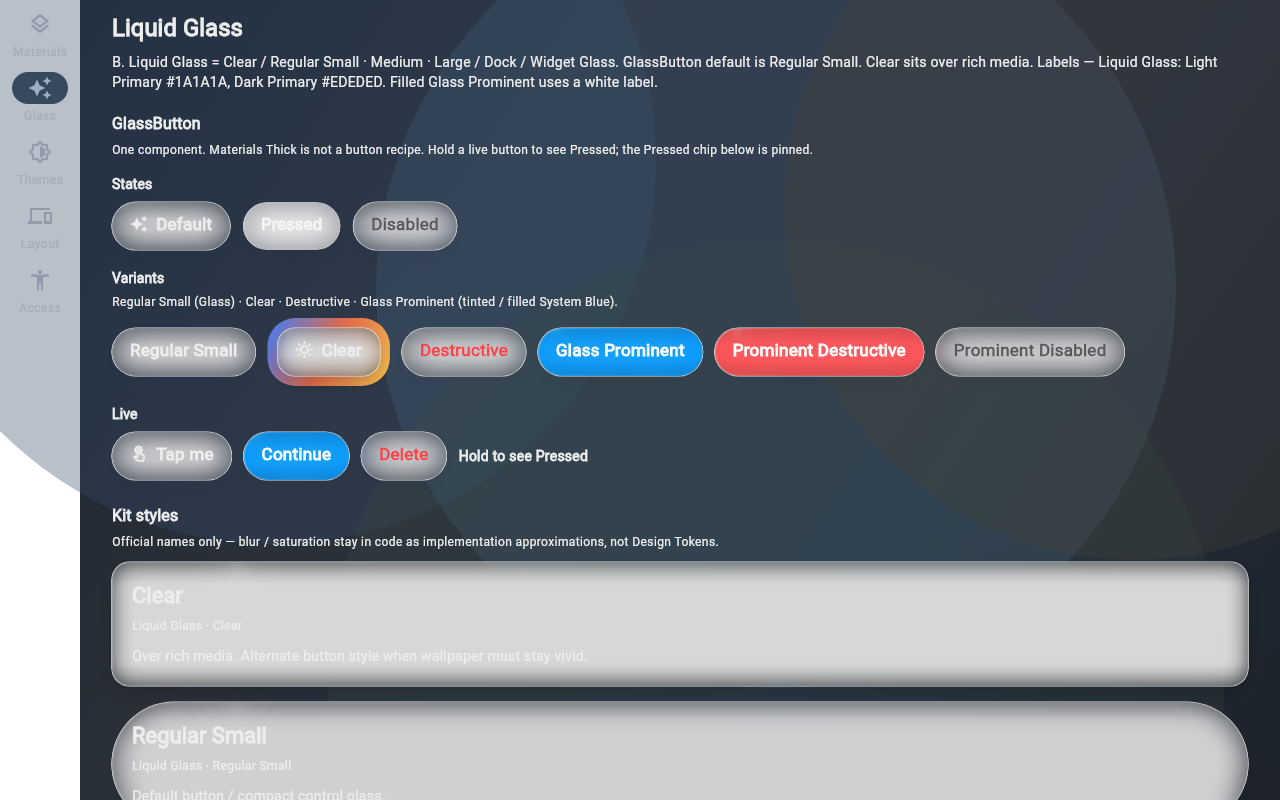
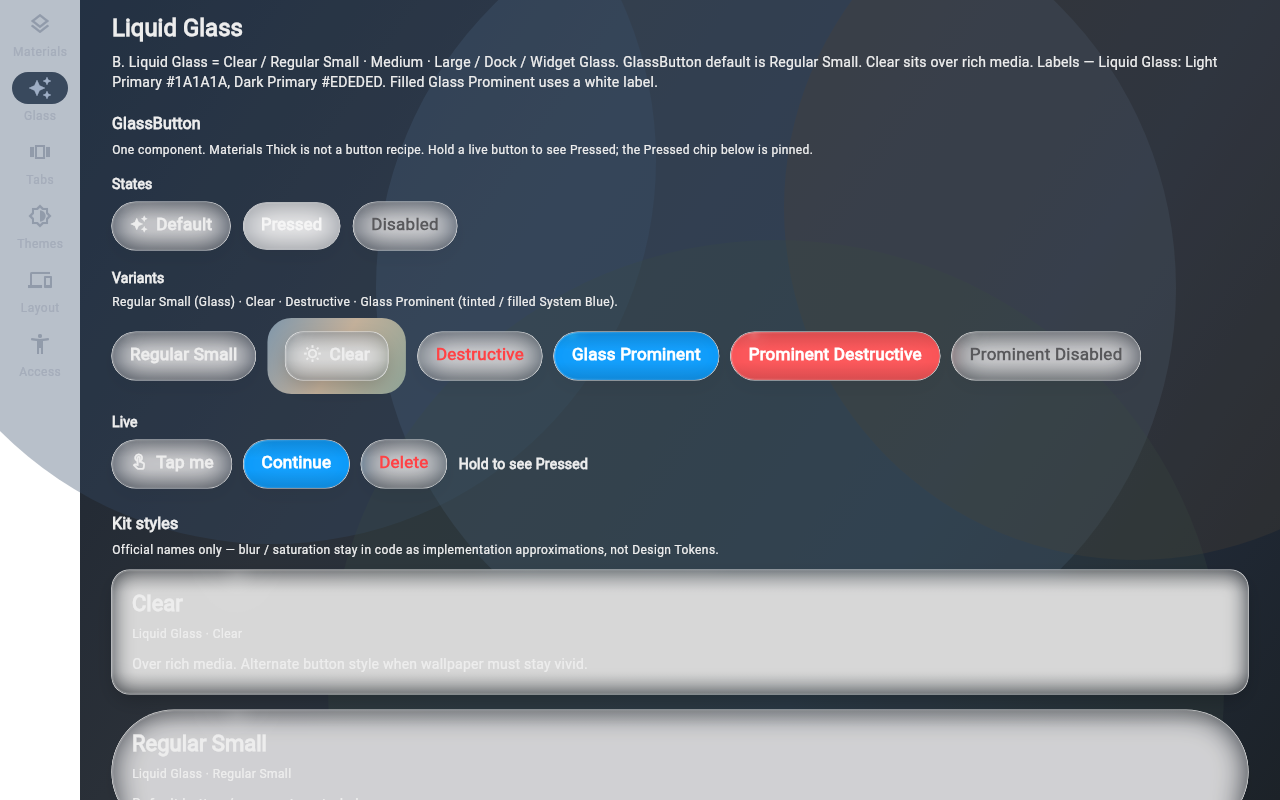
Refresh GlassButton screenshots after the muted Clear plate.
The halo in the light capture was the gallery media behind Clear, not a focus ring and not the Sketch hairline. Keep the merged tab bar and the GlassButton API.

diff --git a/example/lib/pages/materials_page.dart b/example/lib/pages/materials_page.dart
@@ -86,14 +86,16 @@ class _MaterialCard extends StatelessWidget {
           const SizedBox(height: 8),
           Text(
             'Materials · ${tier.kitName}',
-            style: Theme.of(context).textTheme.bodySmall
-                ?.copyWith(color: color),
+            style: Theme.of(
+              context,
+            ).textTheme.bodySmall?.copyWith(color: color),
           ),
           const SizedBox(height: 12),
           Text(
             tier.usage,
-            style: Theme.of(context).textTheme.bodyMedium
-                ?.copyWith(color: color),
+            style: Theme.of(
+              context,
+            ).textTheme.bodyMedium?.copyWith(color: color),
           ),
         ],
       ),
@@ -116,8 +118,9 @@ class _RadiusChip extends StatelessWidget {
       padding: const EdgeInsets.symmetric(horizontal: 16, vertical: 12),
       child: Text(
         '${scale.name}  ${r.toStringAsFixed(0)}  待核验',
-        style: Theme.of(context).textTheme.labelLarge
-            ?.copyWith(fontWeight: FontWeight.w600),
+        style: Theme.of(
+          context,
+        ).textTheme.labelLarge?.copyWith(fontWeight: FontWeight.w600),
       ),
     );
   }

diff --git a/example/lib/pages/layout_page.dart b/example/lib/pages/layout_page.dart
@@ -159,8 +159,9 @@ class _LayoutStage extends StatelessWidget {
                       '${data.isWideShort ? ' · wide-short' : ''}'
                       '${data.avoidHinge ? ' · hinge-safe' : ''}',
                       key: const Key('layout-class-label'),
-                      style: Theme.of(context).textTheme.titleMedium
-                          ?.copyWith(fontWeight: FontWeight.w700),
+                      style: Theme.of(context).textTheme.titleMedium?.copyWith(
+                        fontWeight: FontWeight.w700,
+                      ),
                     ),
                   ),
                   const SizedBox(height: 12),
@@ -238,8 +239,9 @@ class _PaneCopy extends StatelessWidget {
       children: [
         Text(
           title,
-          style: Theme.of(context).textTheme.titleMedium
-              ?.copyWith(fontWeight: FontWeight.w700),
+          style: Theme.of(
+            context,
+          ).textTheme.titleMedium?.copyWith(fontWeight: FontWeight.w700),
         ),
         const SizedBox(height: 8),
         Text(body, style: Theme.of(context).textTheme.bodySmall),

diff --git a/example/lib/pages/glass_page.dart b/example/lib/pages/glass_page.dart
@@ -184,20 +184,24 @@ class _GlassStyleCard extends StatelessWidget {
         children: [
           Text(
             style.kitName,
-            style: Theme.of(context).textTheme.titleLarge
-                ?.copyWith(fontWeight: FontWeight.w700, color: label),
+            style: Theme.of(context).textTheme.titleLarge?.copyWith(
+              fontWeight: FontWeight.w700,
+              color: label,
+            ),
           ),
           const SizedBox(height: 8),
           Text(
             'Liquid Glass · ${style.kitName}',
-            style: Theme.of(context).textTheme.bodySmall
-                ?.copyWith(color: label),
+            style: Theme.of(
+              context,
+            ).textTheme.bodySmall?.copyWith(color: label),
           ),
           const SizedBox(height: 12),
           Text(
             style.usage,
-            style: Theme.of(context).textTheme.bodyMedium
-                ?.copyWith(color: label),
+            style: Theme.of(
+              context,
+            ).textTheme.bodyMedium?.copyWith(color: label),
           ),
         ],
       ),
